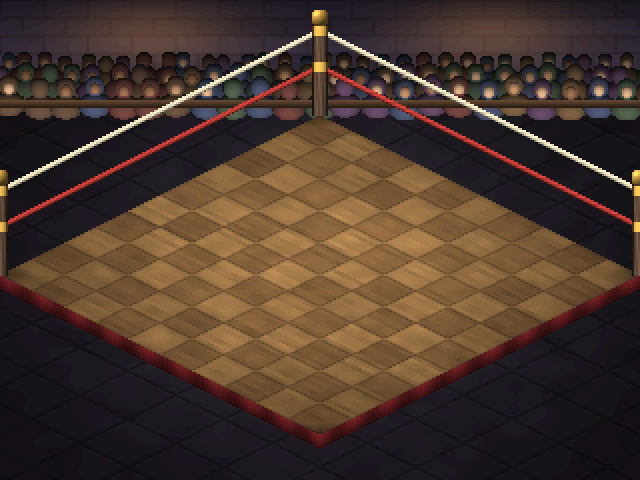
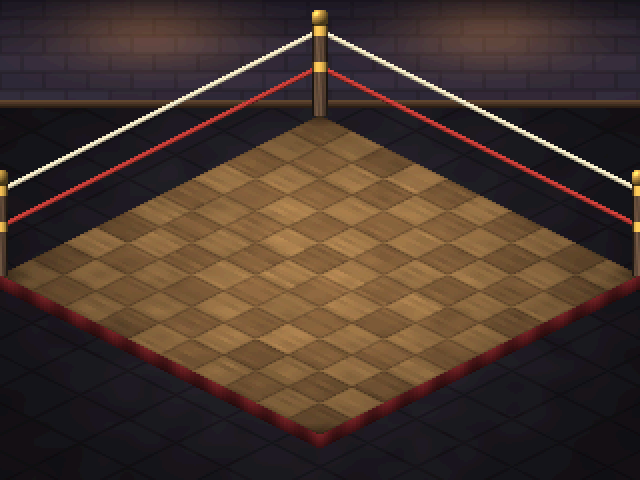
Polish Brass Ring HUD and fix chat stealing input
Remove the crowd, add brass panels, shaded bars, a health trail, round pips and a banner plaque. Clear chat focus when the ring opens and turn off rebindable hotkeys while it is open.

diff --git a/Chaos.Client/Controls/World/Popups/BrassRing/BrassRingControl.cs b/Chaos.Client/Controls/World/Popups/BrassRing/BrassRingControl.cs
@@ -29,6 +29,9 @@ public sealed class BrassRingControl : UIPanel
     private const int BLOCK_SOUND = 1;
     private const int BAR_WIDTH = 240;
     private const int STAMINA_WIDTH = 170;
+    private const int BANNER_Y = 369;
+    private const int PIP_SPACING = 20;
+    private const float TRAIL_PER_STEP = 0.75f;
     private const int KEY_ROW_Y = WINDOW_HEIGHT - 15;
     private const int KEY_LABEL_Y = WINDOW_HEIGHT - 22;
 
@@ -37,14 +40,14 @@ public sealed class BrassRingControl : UIPanel
     private static readonly Color NearColor = new(217, 72, 59);
     private static readonly Color FarColor = new(59, 127, 217);
     private static readonly Color StaminaColor = new(224, 177, 62);
-    private static readonly Color EmptyColor = new(50, 48, 58);
-    private static readonly Color StripColor = new(20, 18, 27);
+    private static readonly Color TrailColor = new(235, 225, 200);
     private static readonly (int X, int Frame)[] KeyIcons = [(149, 0), (237, 1), (333, 2), (429, 3), (455, 4)];
 
     private readonly UILabel BannerLabel;
     private readonly Camera Camera = new(WINDOW_WIDTH, WINDOW_HEIGHT) { Position = new Vector2(WINDOW_WIDTH / 2f, WINDOW_HEIGHT / 2f) };
     private readonly List<BrassRingEvent> Events = [];
     private readonly int[] FlashMs = new int[2];
+    private readonly float[] TrailHealth = new float[2];
     private readonly UILabel FarNameLabel;
     private readonly UILabel NearNameLabel;
     private readonly UILabel RoundLabel;
@@ -77,7 +80,7 @@ public sealed class BrassRingControl : UIPanel
         FarNameLabel = AddLabel(WINDOW_WIDTH - 16 - BAR_WIDTH, 6, BAR_WIDTH, HorizontalAlignment.Right);
         RoundLabel = AddLabel(WINDOW_WIDTH / 2 - 40, 6, 80, HorizontalAlignment.Center);
         TimeLabel = AddLabel(WINDOW_WIDTH / 2 - 40, 22, 80, HorizontalAlignment.Center);
-        BannerLabel = AddLabel(0, 200, WINDOW_WIDTH, HorizontalAlignment.Center);
+        BannerLabel = AddLabel(0, BANNER_Y, WINDOW_WIDTH, HorizontalAlignment.Center);
         AddLabel(165, KEY_LABEL_Y, 40, HorizontalAlignment.Left).Text = "Left";
         AddLabel(253, KEY_LABEL_Y, 44, HorizontalAlignment.Left).Text = "Right";
         AddLabel(349, KEY_LABEL_Y, 44, HorizontalAlignment.Left).Text = "Block";
@@ -96,7 +99,8 @@ public sealed class BrassRingControl : UIPanel
         ResultsMs = -1;
         SparkMs = 0;
         Array.Clear(FlashMs);
-        BannerLabel.Text = string.Empty;
+        BannerLabel.Text = "Get ready";
+        Array.Fill(TrailHealth, (float)MAX_HEALTH);
         InputDispatcher.Instance?.PushControl(this);
         Visible = true;
     }
@@ -184,6 +188,9 @@ public sealed class BrassRingControl : UIPanel
 
         Events.Clear();
 
+        for (var i = 0; i < TrailHealth.Length; i++)
+            TrailHealth[i] = Math.Max(Fight.Fighters[i].Health, TrailHealth[i] - TRAIL_PER_STEP);
+
         if (ResultsMs < 0)
             return;
 
@@ -267,21 +274,40 @@ public sealed class BrassRingControl : UIPanel
         var near = Fight.Fighters[PLAYER];
         var far = Fight.Fighters[DUMMY];
         var white = BrassRingArtAssets.Texture(ChaosGame.Device, "white");
+        var stamina = near.Stamina / (float)MAX_STAMINA;
 
-        Bar(spriteBatch, white, 16, 24, BAR_WIDTH, 16, near.Health / (float)MAX_HEALTH, NearColor, false);
-        Bar(spriteBatch, white, 16, 44, STAMINA_WIDTH, 7, near.Stamina / (float)MAX_STAMINA, StaminaColor, false);
-        Bar(spriteBatch, white, WINDOW_WIDTH - 16 - BAR_WIDTH, 24, BAR_WIDTH, 16, far.Health / (float)MAX_HEALTH, FarColor, true);
-        spriteBatch.Draw(white, new Rectangle(ScreenX, ScreenY + WINDOW_HEIGHT - 30, WINDOW_WIDTH, 30), StripColor);
+        DrawSheet(spriteBatch, "hud", 0, Vector2.Zero);
+        Bar(spriteBatch, white, 16, 24, BAR_WIDTH, 16, near.Health / (float)MAX_HEALTH, TrailHealth[PLAYER] / MAX_HEALTH, NearColor, false);
+        Bar(spriteBatch, white, 16, 44, STAMINA_WIDTH, 7, stamina, stamina, StaminaColor, false);
+        Bar(spriteBatch, white, WINDOW_WIDTH - 16 - BAR_WIDTH, 24, BAR_WIDTH, 16, far.Health / (float)MAX_HEALTH, TrailHealth[DUMMY] / MAX_HEALTH, FarColor, true);
+
+        for (var i = 0; i < ROUNDS_TO_WIN; i++)
+        {
+            DrawSheet(spriteBatch, "pip", i < near.RoundWins ? 1 : 0, new Vector2(212 + i * PIP_SPACING, 48));
+            DrawSheet(spriteBatch, "pip", i < far.RoundWins ? 1 : 0, new Vector2(608 - i * PIP_SPACING, 48));
+        }
+
+        DrawSheet(spriteBatch, "keybar", 0, new Vector2(0, WINDOW_HEIGHT - 30));
+
         foreach (var (x, frame) in KeyIcons)
             DrawSheet(spriteBatch, "keys", frame, new Vector2(x, KEY_ROW_Y));
+
+        if (!string.IsNullOrEmpty(BannerLabel.Text))
+            DrawSheet(spriteBatch, "plaque", 0, new Vector2(WINDOW_WIDTH / 2f, BANNER_Y + 6));
     }
 
-    private void Bar(SpriteBatch spriteBatch, Texture2D white, int x, int y, int width, int height, float fraction, Color color, bool fromRight)
+    private void Bar(SpriteBatch spriteBatch, Texture2D white, int x, int y, int width, int height, float fraction, float trail, Color color, bool fromRight)
     {
-        spriteBatch.Draw(white, new Rectangle(ScreenX + x, ScreenY + y, width, height), EmptyColor);
+        var trailWidth = (int)(width * trail);
+        spriteBatch.Draw(white, new Rectangle(ScreenX + (fromRight ? x + width - trailWidth : x), ScreenY + y, trailWidth, height), TrailColor);
+
         var filled = (int)(width * fraction);
-        var left = fromRight ? x + width - filled : x;
-        spriteBatch.Draw(white, new Rectangle(ScreenX + left, ScreenY + y, filled, height), color);
+        var left = ScreenX + (fromRight ? x + width - filled : x);
+        var band = Math.Max(height / 4, 1);
+
+        spriteBatch.Draw(white, new Rectangle(left, ScreenY + y, filled, height), color);
+        spriteBatch.Draw(white, new Rectangle(left, ScreenY + y, filled, band), Color.Lerp(color, Color.White, 0.35f));
+        spriteBatch.Draw(white, new Rectangle(left, ScreenY + y + height - band, filled, band), Color.Lerp(color, Color.Black, 0.3f));
     }
 
     private void DrawSheet(SpriteBatch spriteBatch, string key, int frame, Vector2 at)

diff --git a/Tests/Chaos.Client.Tests/BrassRing/BrassRingArtAssetsTests.cs b/Tests/Chaos.Client.Tests/BrassRing/BrassRingArtAssetsTests.cs
@@ -7,7 +7,7 @@ public sealed class BrassRingArtAssetsTests
 {
     [Test]
     public void Manifest_lists_every_sheet()
-        => BrassRingArtAssets.ReadManifest().Keys.Should().BeEquivalentTo("arena", "ropes", "glove", "spark", "stars", "white", "keys");
+        => BrassRingArtAssets.ReadManifest().Keys.Should().BeEquivalentTo("arena", "ropes", "glove", "spark", "stars", "white", "keys", "hud", "keybar", "plaque", "pip");
 
     [Test]
     public void Every_sheet_opens_and_passes_its_size_check()

diff --git a/Chaos.Client/Screens/WorldScreen.InputHandlers.cs b/Chaos.Client/Screens/WorldScreen.InputHandlers.cs
@@ -549,6 +549,10 @@ public sealed partial class WorldScreen
     /// </summary>
     private bool IsActionUsable(GameAction action)
     {
+#if DEBUG
+        if (BrassRingWindow is { Visible: true })
+            return false;
+#endif
         if ((GameActions.SongNote(action) > 0) && !WorldState.Song.HasLiveCall)
             return false;
 

diff --git a/Chaos.Client/Screens/WorldScreen.BrassRing.cs b/Chaos.Client/Screens/WorldScreen.BrassRing.cs
@@ -22,6 +22,8 @@ public sealed partial class WorldScreen
         if (Root is null)
             return;
 
+        WorldHud.ChatInput.Unfocus();
+
         if (BrassRingWindow is null)
         {
             BrassRingWindow = new BrassRingControl(Game.AislingRenderer, Game.SoundSystem) { ZIndex = 2 };
